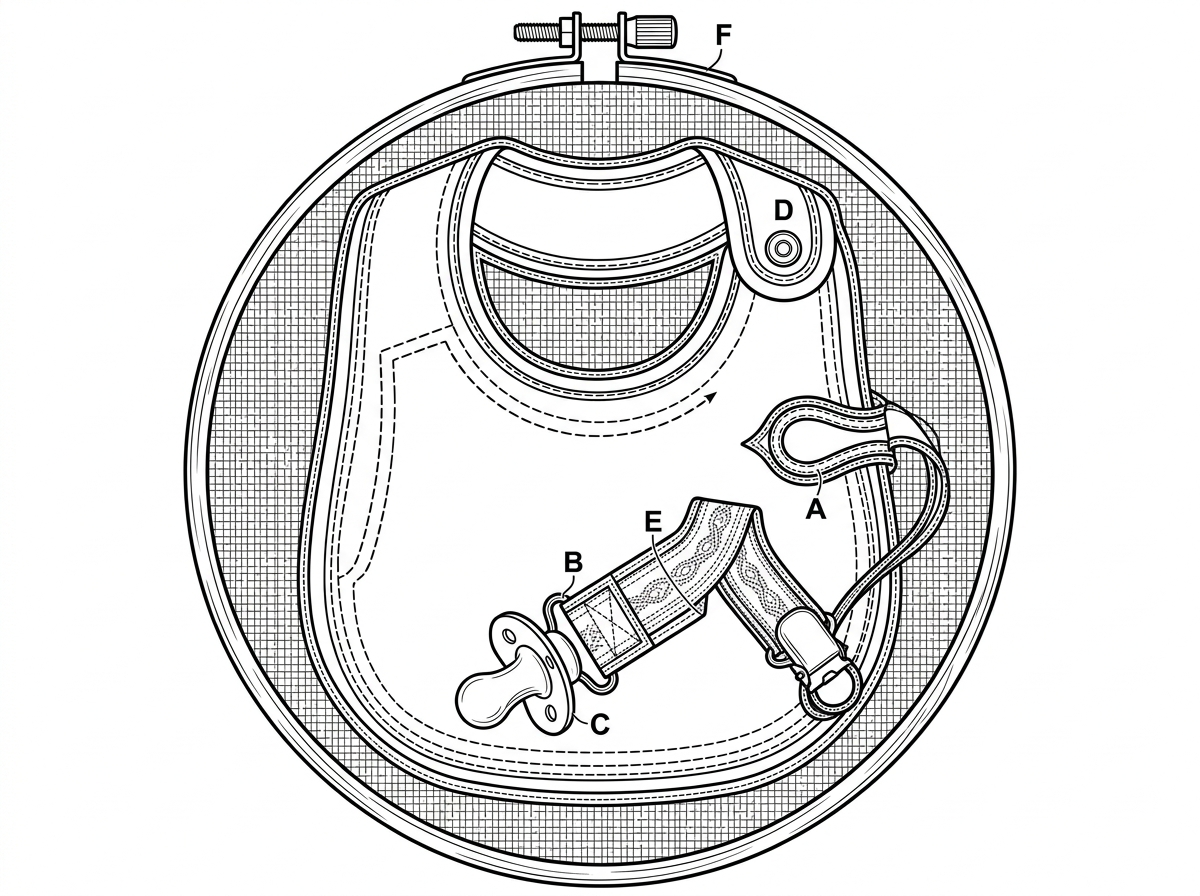
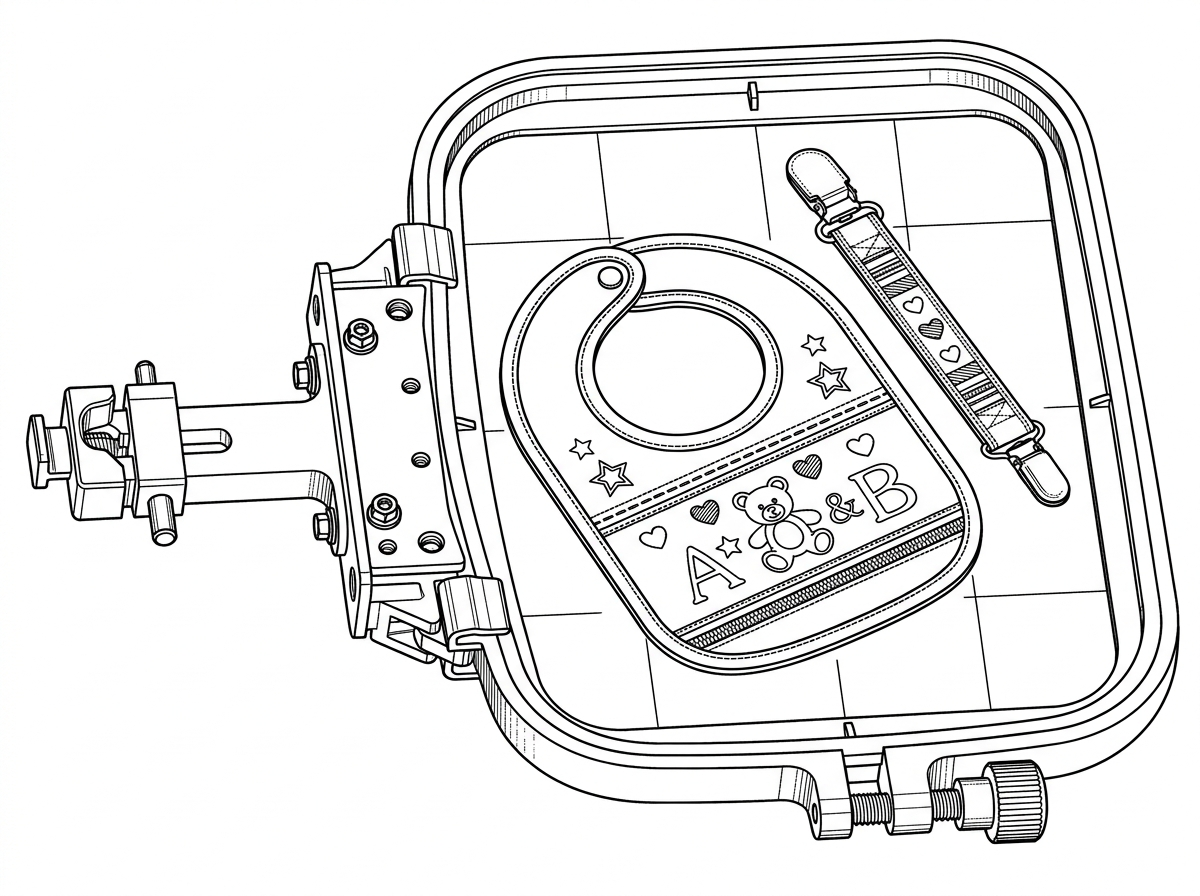
feat: add sequin device term and update babador caption
Add the "Aparelho de Lantejoulas" entry to the master acervo and refine the technical description for the babador project documentation.

Changed region(s): [[0.0, 0.0, 0.9867, 1.0]]

diff --git a/src/data/verbetesLetterB1.ts b/src/data/verbetesLetterB1.ts
@@ -3875,7 +3875,7 @@ export const VERBETES_LETTER_B1: Verbete[] = [
       "artrelados"
     ],
     "imageUrl": "/images/b001_babador_prendedor_chupeta_v1.jpg",
-    "imageCaption": "Diagrama Técnico do Babador e Prendedor de Chupeta no Bastidor (Padrão Manual Singer Moderno): montagem no bastidor (ITH), corte em camadas (atoalhado, impermeável e avesso macio), botão de pressão e salva-chupeta com reforço em X (10 kgf) e clipe jacaré."
+    "imageCaption": "Diagrama Técnico do Babador e Prendedor de Chupeta no Bastidor Eletrônico: montagem em bastidor retangular com acoplamento ao pantógrafo da máquina, estrutura com botão de pressão na aba e salva-chupeta com reforço em X de segurança pediátrica e fecho jacaré."
   },
   {
     "id": "b-body-e-macacao-infantil-bordados-em-malha",
